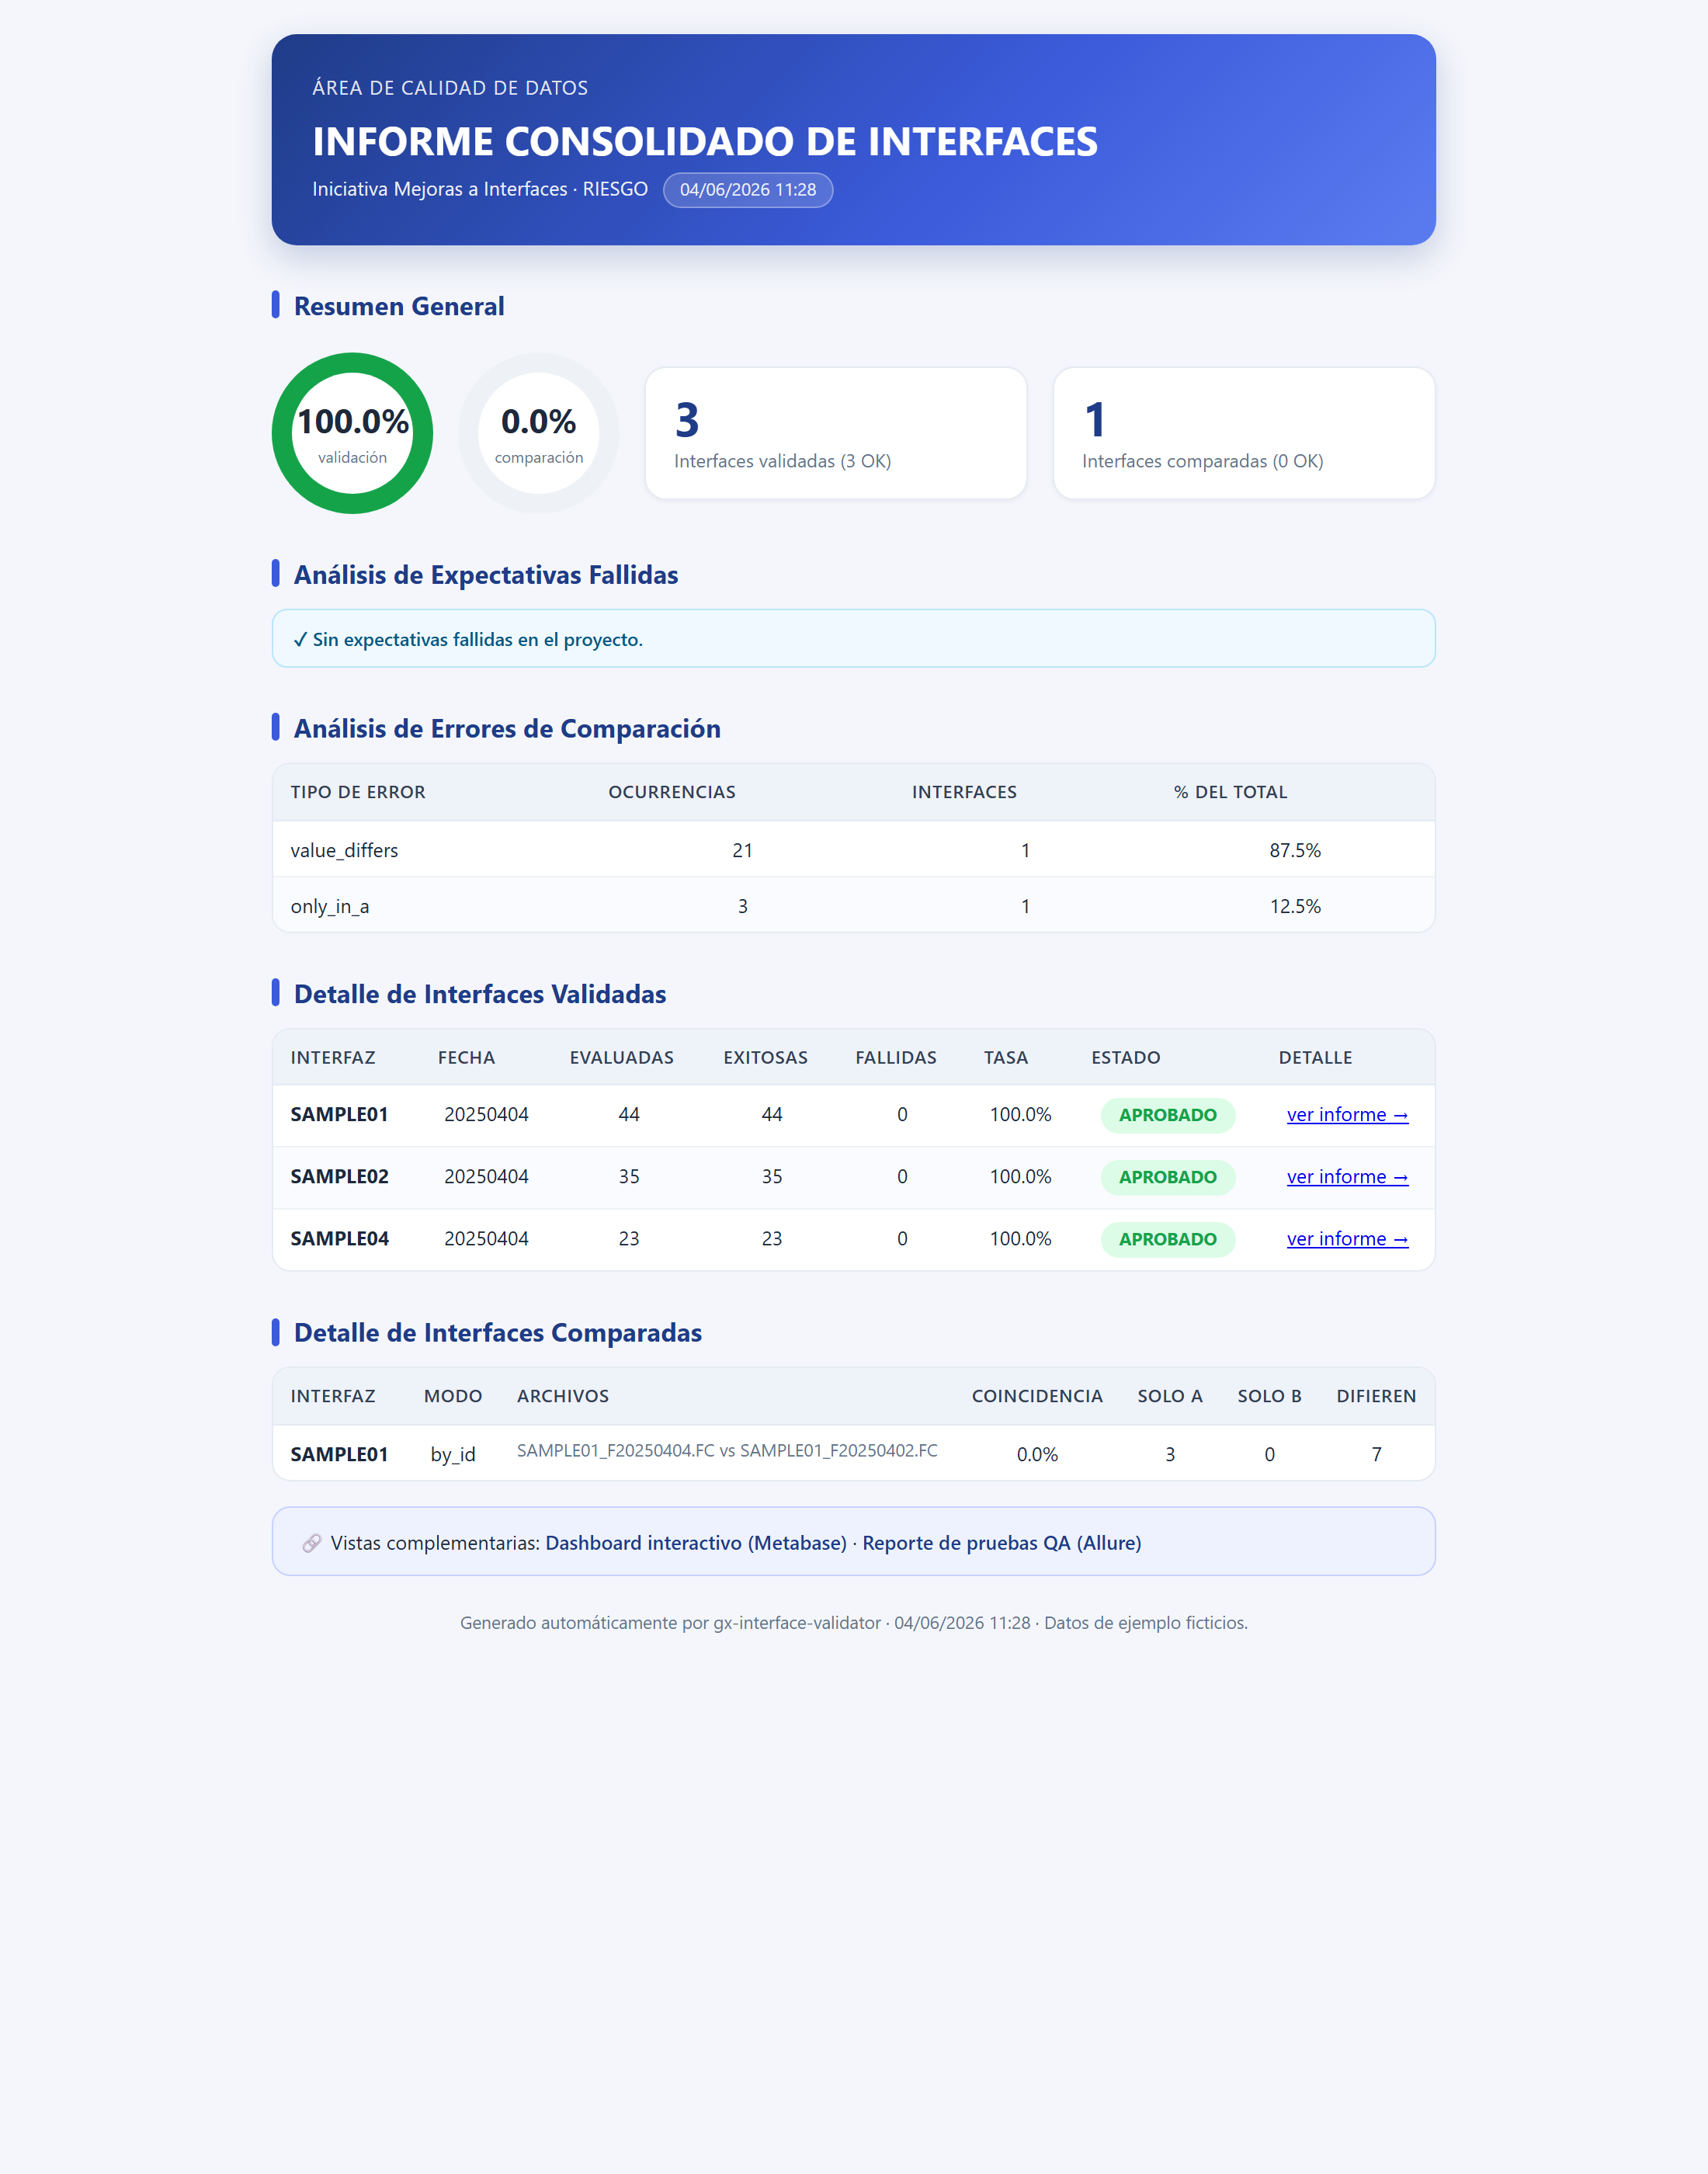
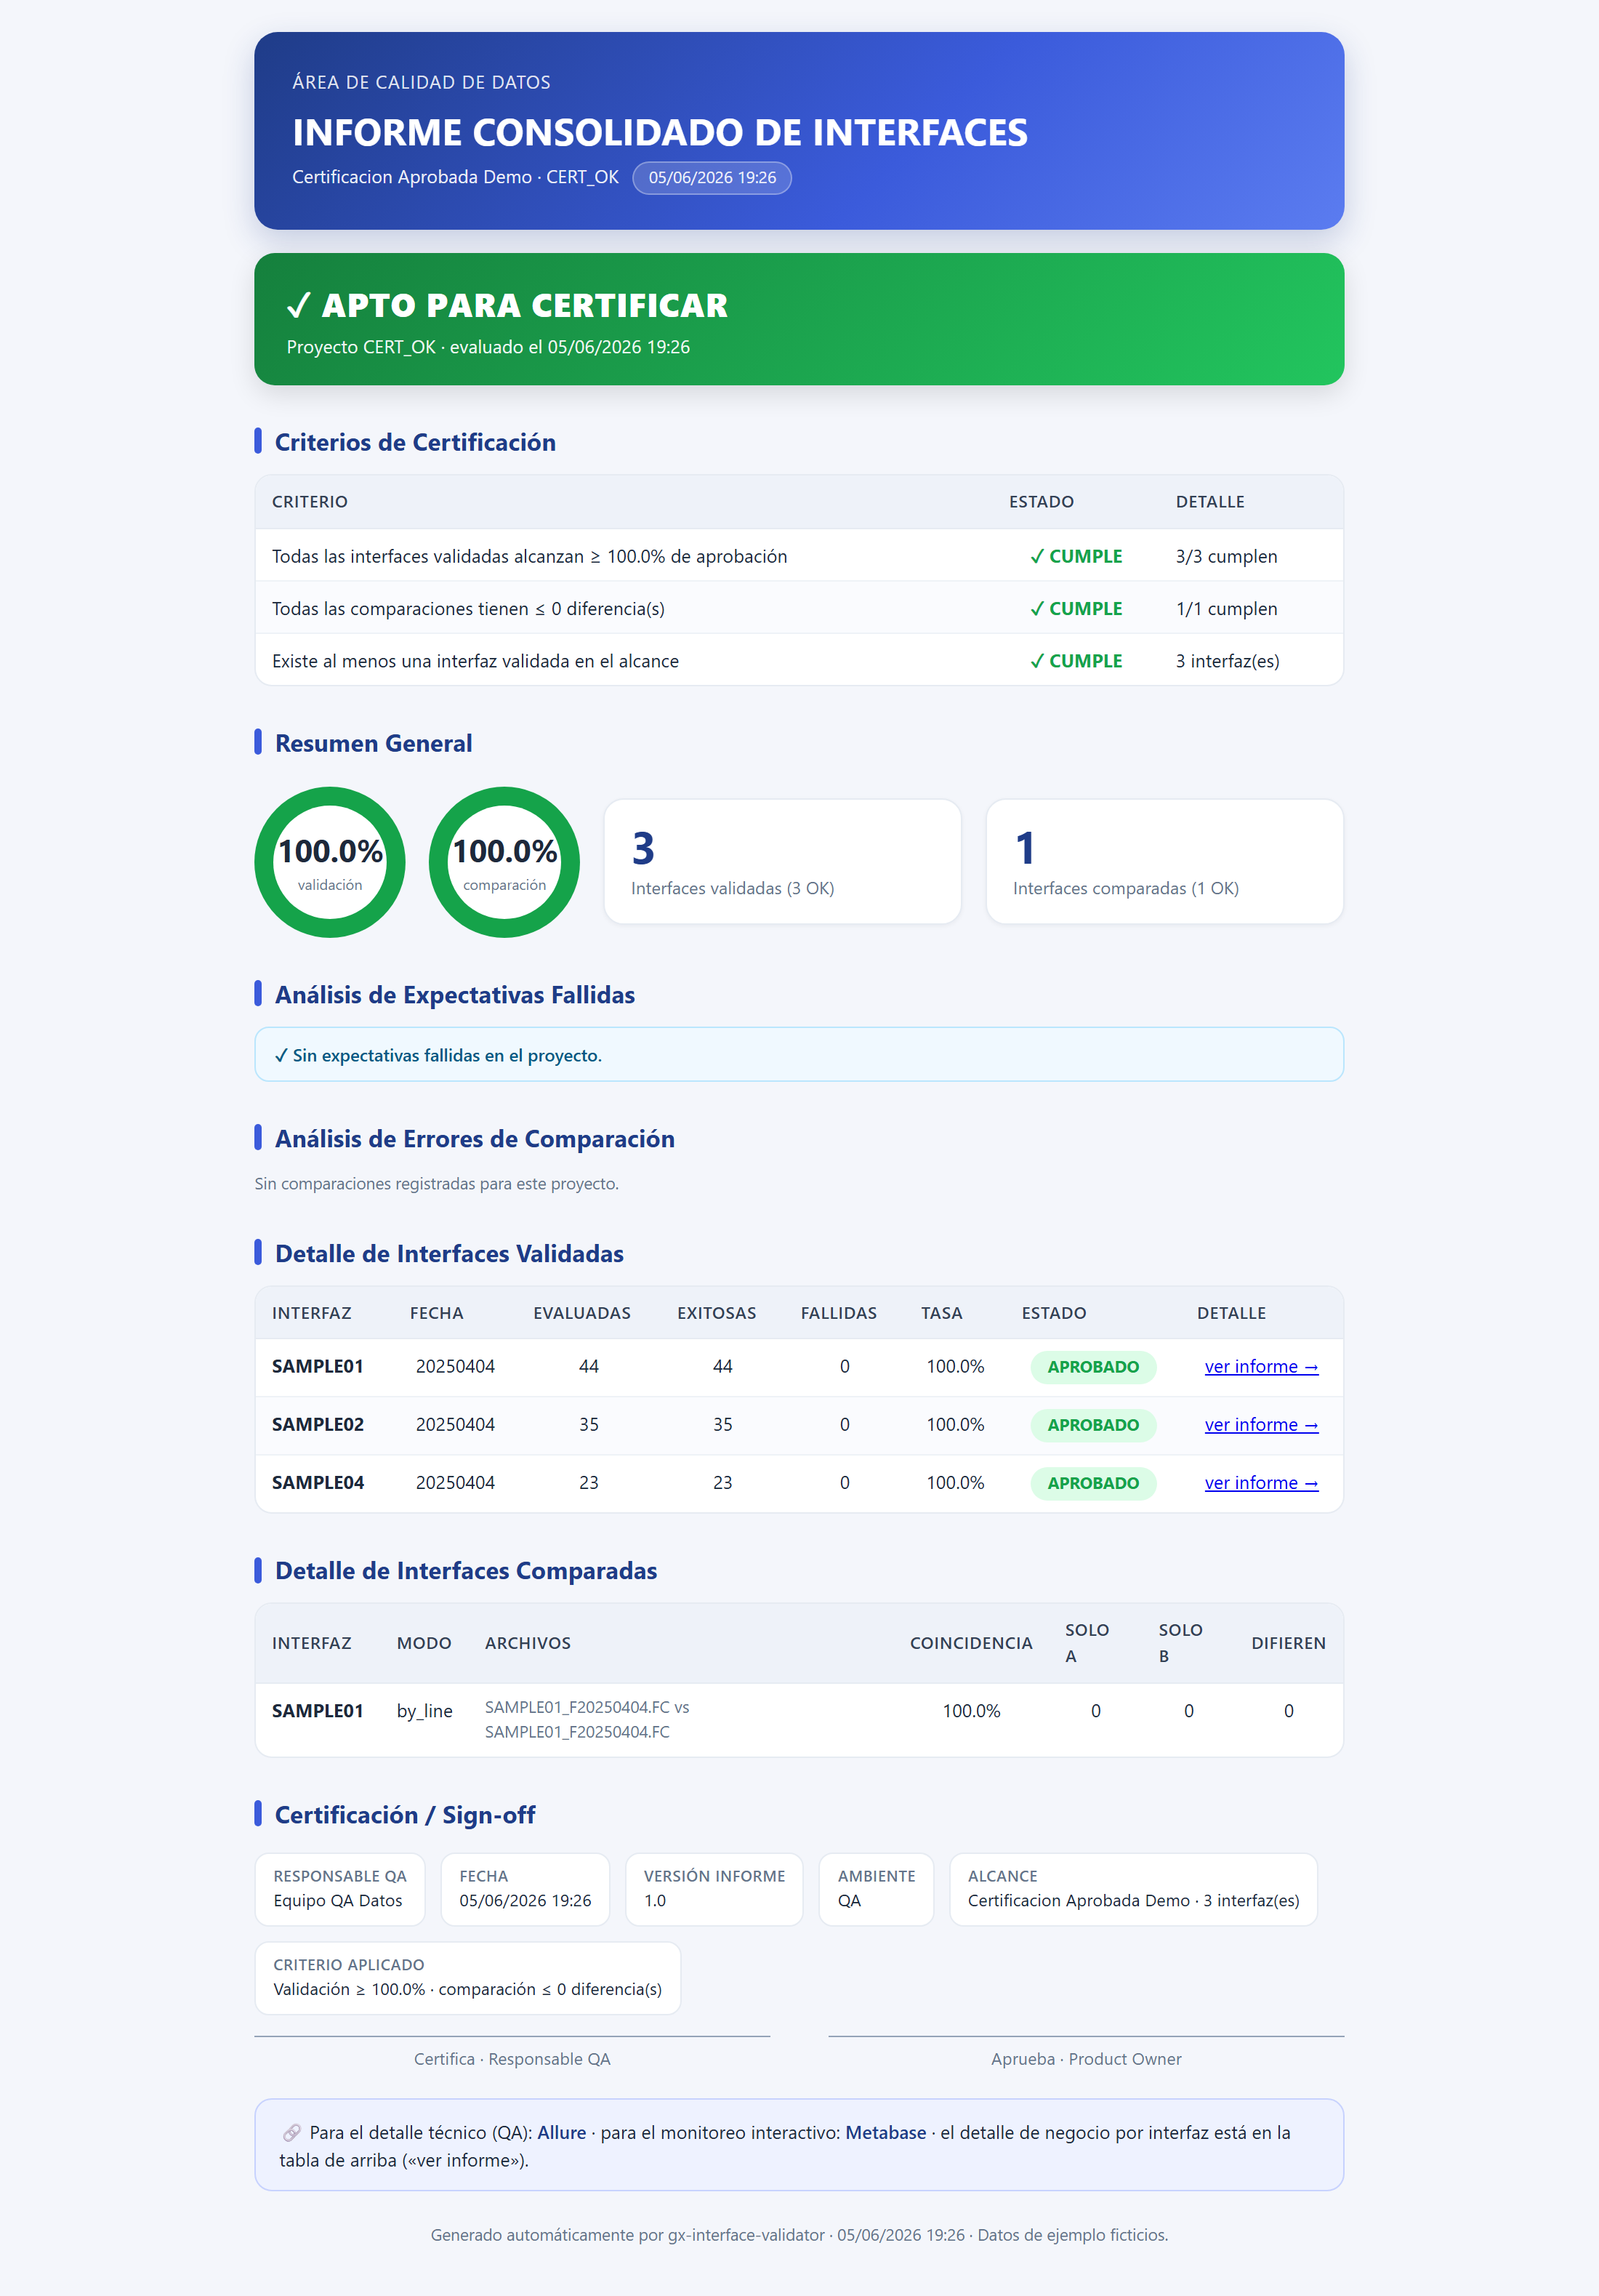
feat(report): veredicto de certificación en el informe de proyecto
Reorienta el informe consolidado a la decisión de certificación (separación de
responsabilidades: Allure=forense, informes=decisión, Metabase=tendencia):
- Veredicto APTO / NO APTO PARA CERTIFICAR con criterios explícitos
- Lista de bloqueantes (validaciones rechazadas / comparaciones con diferencias)
- Bloque de sign-off (responsable, fecha, versión, ambiente, alcance, criterio)
- CLI: flags --responsible/--version/--environment/--organization; imprime veredicto
- Criterios configurables (CERT_MIN_VALIDATION_PERCENT, CERT_MAX_COMPARISON_DIFFS)

diff --git a/src/interface_validator/reporting/project_report.py b/src/interface_validator/reporting/project_report.py
@@ -169,6 +169,8 @@ def build_model(conn, project: str, meta: dict | None = None, embed: bool = Fals
                 ORDER BY s.section
             """, {"rid": v["run_id"]})
 
+    certification = _certify(validated, compared)
+
     return {
         "project": proj, "meta": meta or {},
         "generated_at": datetime.now().strftime("%d/%m/%Y %H:%M"),
@@ -178,6 +180,7 @@ def build_model(conn, project: str, meta: dict | None = None, embed: bool = Fals
             "interfaces_comparadas": n_cmp, "comparadas_ok": n_cmp_ok,
             "pct_exito_comparacion": round(n_cmp_ok / n_cmp * 100, 1) if n_cmp else 0.0,
         },
+        "certification": certification,
         "failed_expectations": failed_expectations,
         "comparison_errors": comparison_errors,
         "validated": validated,
@@ -185,6 +188,58 @@ def build_model(conn, project: str, meta: dict | None = None, embed: bool = Fals
         "embed": embed,
         "metabase_url": config.METABASE_URL,
         "allure_url": config.ALLURE_URL,
+    }
+
+
+def _certify(validated: list[dict], compared: list[dict]) -> dict:
+    """
+    Determina si el proyecto es APTO PARA CERTIFICAR según criterios explícitos,
+    y lista los bloqueantes que impiden el cierre.
+    """
+    min_pct = config.CERT_MIN_VALIDATION_PERCENT
+    max_diffs = config.CERT_MAX_COMPARISON_DIFFS
+
+    # Bloqueantes de validación: interfaces que no alcanzan el umbral.
+    val_fail = [v for v in validated if (v["success_percent"] or 0) < min_pct]
+    # Bloqueantes de comparación: comparaciones con más diferencias de las toleradas.
+    cmp_fail = [c for c in compared
+                if (c["only_in_a"] or 0) + (c["only_in_b"] or 0) + (c["differing"] or 0) > max_diffs]
+
+    blockers = []
+    for v in val_fail:
+        blockers.append({
+            "tipo": "Validación",
+            "interfaz": v["interface"],
+            "detalle": f"{v['failed']} expectativa(s) fallida(s) · {v['success_percent']}% (< {min_pct}%)",
+        })
+    for c in cmp_fail:
+        diffs = (c["only_in_a"] or 0) + (c["only_in_b"] or 0) + (c["differing"] or 0)
+        blockers.append({
+            "tipo": "Comparación",
+            "interfaz": c["interface"],
+            "detalle": f"{diffs} diferencia(s) · coincidencia {c['match_percent']}%",
+        })
+
+    has_scope = len(validated) > 0
+    criteria = [
+        {"name": f"Todas las interfaces validadas alcanzan ≥ {min_pct}% de aprobación",
+         "passed": len(val_fail) == 0 and has_scope,
+         "detalle": f"{len(validated) - len(val_fail)}/{len(validated)} cumplen"},
+        {"name": f"Todas las comparaciones tienen ≤ {max_diffs} diferencia(s)",
+         "passed": len(cmp_fail) == 0,
+         "detalle": (f"{len(compared) - len(cmp_fail)}/{len(compared)} cumplen"
+                     if compared else "sin comparaciones (N/A)")},
+        {"name": "Existe al menos una interfaz validada en el alcance",
+         "passed": has_scope, "detalle": f"{len(validated)} interfaz(es)"},
+    ]
+
+    apto = all(c["passed"] for c in criteria)
+    return {
+        "apto": apto,
+        "verdict": "APTO PARA CERTIFICAR" if apto else "NO APTO PARA CERTIFICAR",
+        "criterio": f"Validación ≥ {min_pct}% · comparación ≤ {max_diffs} diferencia(s)",
+        "criteria": criteria,
+        "blockers": blockers,
     }
 
 
@@ -199,6 +254,14 @@ _TEMPLATE = Template(r"""<!DOCTYPE html>
 <style>{{ css }}
   .embed-block{ background:var(--card); border:1px solid var(--border); border-radius:12px; padding:10px 14px; margin:10px 0; }
   .embed-block h4{ margin:4px 0 8px; color:var(--primary-dark); }
+  .cert{ border-radius:14px; padding:18px 22px; margin:16px 0; color:#fff; box-shadow:0 6px 18px rgba(0,0,0,.12); }
+  .cert-ok{ background:linear-gradient(135deg,#15803d,#22c55e); }
+  .cert-no{ background:linear-gradient(135deg,#b91c1c,#ef4444); }
+  .cert .verdict{ font-size:17pt; font-weight:800; letter-spacing:.4px; }
+  .cert .cert-sub{ opacity:.92; font-size:9.5pt; margin-top:2px; }
+  .crit-ok{ color:var(--ok); font-weight:700; } .crit-no{ color:var(--bad); font-weight:700; }
+  .signoff{ display:flex; gap:40px; margin-top:14px; }
+  .signoff .sig{ flex:1; border-top:1px solid #94a3b8; padding-top:6px; color:var(--muted); font-size:8.8pt; text-align:center; }
 </style>
 </head>
 <body>
@@ -210,6 +273,36 @@ _TEMPLATE = Template(r"""<!DOCTYPE html>
     <div class="sub">{{ project.name }} · {{ project.project_key }}
       <span class="chip">{{ generated_at }}</span></div>
   </div>
+
+  <!-- Veredicto de certificación -->
+  <div class="cert {{ 'cert-ok' if certification.apto else 'cert-no' }}">
+    <div class="verdict">{{ '✓' if certification.apto else '✕' }} {{ certification.verdict }}</div>
+    <div class="cert-sub">Proyecto {{ project.project_key }} · evaluado el {{ generated_at }}</div>
+  </div>
+
+  <div class="section-title">Criterios de Certificación</div>
+  <table>
+    <thead><tr><th>Criterio</th><th>Estado</th><th>Detalle</th></tr></thead>
+    <tbody>
+    {% for c in certification.criteria %}
+    <tr><td>{{ c.name }}</td>
+        <td class="center {{ 'crit-ok' if c.passed else 'crit-no' }}">{{ '✓ CUMPLE' if c.passed else '✕ NO CUMPLE' }}</td>
+        <td>{{ c.detalle }}</td></tr>
+    {% endfor %}
+    </tbody>
+  </table>
+
+  {% if certification.blockers %}
+  <div class="section-title">Bloqueantes para la certificación</div>
+  <table>
+    <thead><tr><th>Tipo</th><th>Interfaz</th><th>Detalle</th></tr></thead>
+    <tbody>
+    {% for b in certification.blockers %}
+    <tr><td>{{ b.tipo }}</td><td><b>{{ b.interfaz }}</b></td><td>{{ b.detalle }}</td></tr>
+    {% endfor %}
+    </tbody>
+  </table>
+  {% endif %}
 
   <div class="section-title">Resumen General</div>
   <div class="hero">
@@ -298,10 +391,24 @@ _TEMPLATE = Template(r"""<!DOCTYPE html>
   </table>
   {% else %}<p class="muted">Sin comparaciones registradas.</p>{% endif %}
 
-  <div class="linkbar">
-    🔗 Vistas complementarias:
-    <a href="{{ metabase_url }}">Dashboard interactivo (Metabase)</a> ·
-    <a href="{{ allure_url }}">Reporte de pruebas QA (Allure)</a>
+  <div class="section-title">Certificación / Sign-off</div>
+  <div class="metastrip">
+    <div class="m"><b>Responsable QA</b>{{ meta.responsible or 'Equipo QA' }}</div>
+    <div class="m"><b>Fecha</b>{{ generated_at }}</div>
+    <div class="m"><b>Versión informe</b>{{ meta.version or '1.0' }}</div>
+    <div class="m"><b>Ambiente</b>{{ meta.environment or 'QA' }}</div>
+    <div class="m"><b>Alcance</b>{{ project.name }} · {{ kpis.interfaces_validadas }} interfaz(es)</div>
+    <div class="m"><b>Criterio aplicado</b>{{ certification.criterio }}</div>
+  </div>
+  <div class="signoff">
+    <div class="sig">Certifica · Responsable QA</div>
+    <div class="sig">Aprueba · Product Owner</div>
+  </div>
+
+  <div class="linkbar" style="margin-top:18px;">
+    🔗 Para el detalle técnico (QA): <a href="{{ allure_url }}">Allure</a> ·
+    para el monitoreo interactivo: <a href="{{ metabase_url }}">Metabase</a> ·
+    el detalle de negocio por interfaz está en la tabla de arriba («ver informe»).
   </div>
 
   <p class="muted" style="text-align:center; margin-top:22px;">Generado automáticamente por gx-interface-validator · {{ generated_at }} · Datos de ejemplo ficticios.</p>

diff --git a/src/interface_validator/project_report_cli.py b/src/interface_validator/project_report_cli.py
@@ -28,7 +28,21 @@ def _build_parser() -> argparse.ArgumentParser:
     parser.add_argument("--embed", action="store_true",
                         help="Incluye el detalle por interfaz embebido (un solo documento).")
     parser.add_argument("--output", "-o", default=None, help="Directorio de salida.")
+    # Metadatos de certificación / sign-off
+    parser.add_argument("--responsible", default=None, help="Responsable QA que certifica.")
+    parser.add_argument("--version", default=None, help="Versión del informe (ej. 1.0).")
+    parser.add_argument("--environment", default=None, help="Ambiente (QA, PROD, ...).")
+    parser.add_argument("--organization", default=None, help="Área / organización.")
     return parser
+
+
+def _meta_from_args(args) -> dict:
+    meta = {}
+    for key, value in (("responsible", args.responsible), ("version", args.version),
+                       ("environment", args.environment), ("organization", args.organization)):
+        if value:
+            meta[key] = value
+    return meta
 
 
 def main(argv: list[str] | None = None) -> int:
@@ -43,7 +57,8 @@ def main(argv: list[str] | None = None) -> int:
 
     try:
         outputs = generate_project_report(
-            conn, args.project, out_dir, fmt=args.format, embed=args.embed
+            conn, args.project, out_dir, meta=_meta_from_args(args),
+            fmt=args.format, embed=args.embed
         )
     except ValueError as exc:
         print(f"[ERROR] {exc}", file=sys.stderr)
@@ -53,7 +68,10 @@ def main(argv: list[str] | None = None) -> int:
 
     m = outputs["model"]
     k = m["kpis"]
+    cert = m["certification"]
     print(f"Proyecto : {m['project']['project_key']} — {m['project']['name']}")
+    print(f"Veredicto: {cert['verdict']}"
+          + (f"  ({len(cert['blockers'])} bloqueante(s))" if cert["blockers"] else ""))
     print(f"Validadas: {k['interfaces_validadas']} ({k['pct_exito_validacion']}% éxito)  ·  "
           f"Comparadas: {k['interfaces_comparadas']} ({k['pct_exito_comparacion']}% éxito)")
     print(f"HTML     : {outputs['html']}")

diff --git a/src/interface_validator/config.py b/src/interface_validator/config.py
@@ -17,3 +17,9 @@ SECTION_ORDER = ("header", "body", "footer", "cross_section")
 # URLs de las vistas técnicas/interactivas (enlazadas desde el informe de proyecto).
 METABASE_URL = os.getenv("METABASE_URL", "http://localhost:3000")
 ALLURE_URL = os.getenv("ALLURE_URL", "https://d4tr3s14.github.io/gx-interface-validator/")
+
+# Criterios de certificación del informe de proyecto.
+#  - cada interfaz validada debe alcanzar este % de aprobación
+#  - cada comparación debe quedar en/bajo esta cantidad de diferencias
+CERT_MIN_VALIDATION_PERCENT = float(os.getenv("CERT_MIN_VALIDATION_PERCENT", "100"))
+CERT_MAX_COMPARISON_DIFFS = int(os.getenv("CERT_MAX_COMPARISON_DIFFS", "0"))

diff --git a/tests/test_project_report.py b/tests/test_project_report.py
@@ -33,6 +33,10 @@ def test_generate_project_report(tmp_path):
     assert model["project"]["project_key"] == "DEMO"
     # El informe ejecutivo por interfaz (drill-down) también se generó
     assert any(p.name.startswith("Informe_") and p.suffix == ".html" for p in tmp_path.iterdir())
+    # Veredicto de certificación presente y coherente
+    cert = model["certification"]
+    assert cert["verdict"] in ("APTO PARA CERTIFICAR", "NO APTO PARA CERTIFICAR")
+    assert cert["apto"] == all(c["passed"] for c in cert["criteria"])
 
 
 def test_unknown_project_raises():